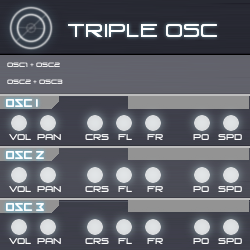
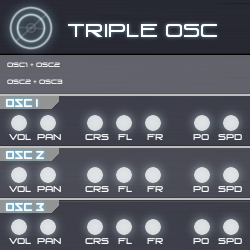
Oscilloscope, tripleosc gfx fix

Changed region(s): [[0.504, 0.784, 1.0, 0.868], [0.504, 0.364, 1.0, 0.448], [0.504, 0.588, 1.0, 0.644]]

diff --git a/data/themes/default/style.css b/data/themes/default/style.css
@@ -104,6 +104,11 @@ QScrollBar:vertical {
     margin: 13px 0px;
 }
 
+visualizationWidget, cpuloadWidget {
+	background: none;
+	border: none;
+}
+
 /* scrollbar: trough clicky things */
 
 QScrollBar::add-page:horizontal, QScrollBar::sub-page:horizontal,

diff --git a/src/gui/widgets/visualization_widget.cpp b/src/gui/widgets/visualization_widget.cpp
@@ -141,7 +141,7 @@ void visualizationWidget::paintEvent( QPaintEvent * )
 		// and set color according to that...
 		if( max_level * master_output < 0.9 )
 		{
-			p.setPen( QColor( 128, 224, 128 ) );
+			p.setPen( QColor( 71, 253, 133 ) );
 		}
 		else if( max_level * master_output < 1.0 )
 		{
